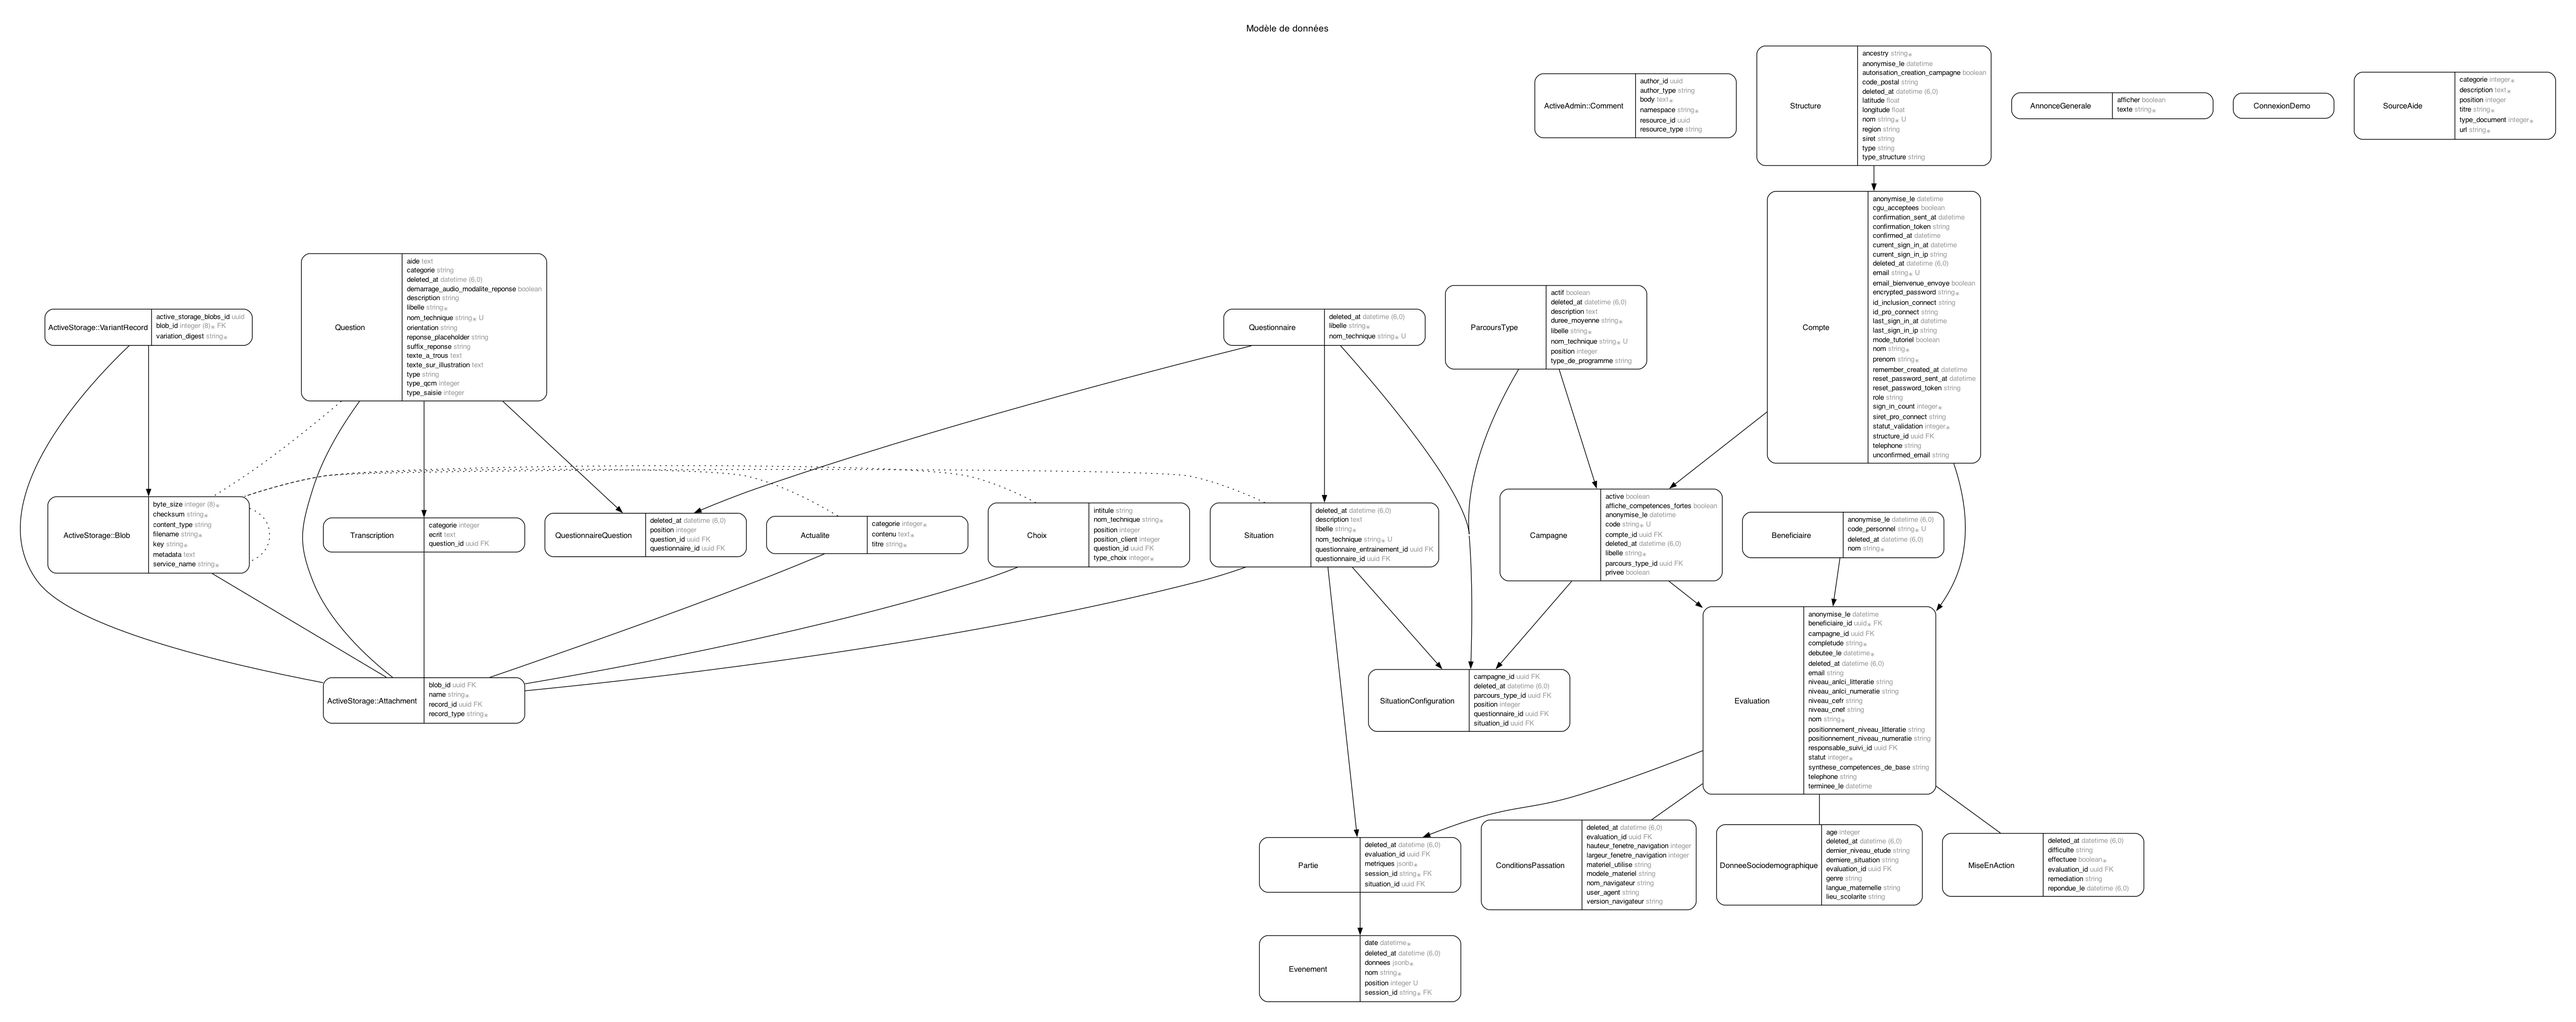
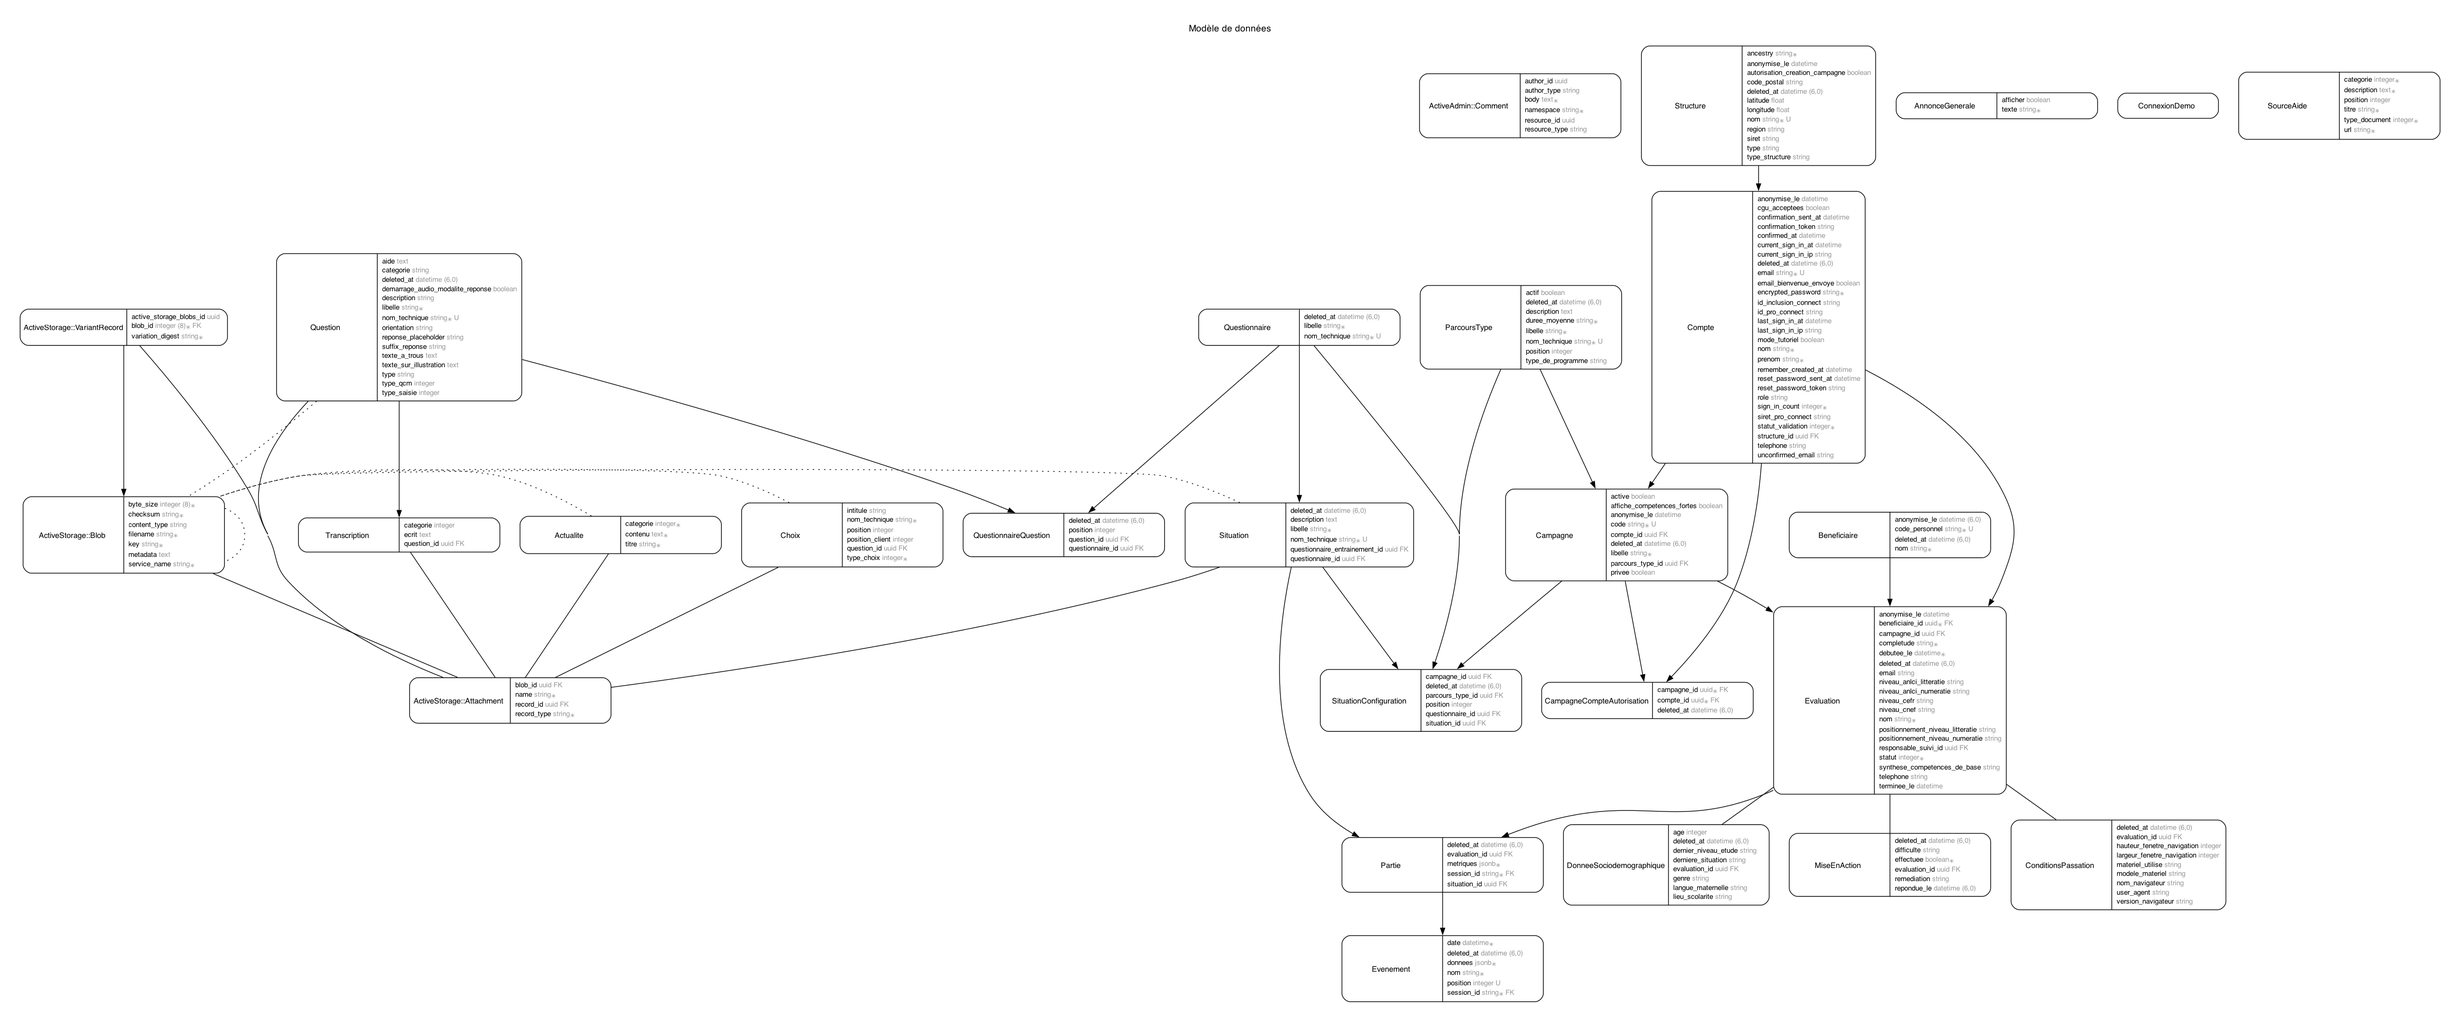
🗃 Ajoute l'autorisation des comptes pour les campagnes

diff --git a/db/schema.rb b/db/schema.rb
@@ -10,7 +10,7 @@
 #
 # It's strongly recommended that you check this file into your version control system.
 
-ActiveRecord::Schema[7.2].define(version: 2025_06_27_085157) do
+ActiveRecord::Schema[7.2].define(version: 2025_07_21_122551) do
   # These are extensions that must be enabled in order to support this database
   enable_extension "pgcrypto"
   enable_extension "plpgsql"
@@ -83,6 +83,16 @@ ActiveRecord::Schema[7.2].define(version: 2025_06_27_085157) do
     t.string "code_personnel"
     t.index ["code_personnel"], name: "index_beneficiaires_on_code_personnel", unique: true
     t.index ["deleted_at"], name: "index_beneficiaires_on_deleted_at"
+  end
+
+  create_table "campagne_compte_autorisations", id: :uuid, default: -> { "gen_random_uuid()" }, force: :cascade do |t|
+    t.uuid "campagne_id", null: false
+    t.uuid "compte_id", null: false
+    t.datetime "deleted_at"
+    t.datetime "created_at", null: false
+    t.datetime "updated_at", null: false
+    t.index ["campagne_id"], name: "index_campagne_compte_autorisations_on_campagne_id"
+    t.index ["compte_id"], name: "index_campagne_compte_autorisations_on_compte_id"
   end
 
   create_table "campagnes", id: :uuid, default: -> { "gen_random_uuid()" }, force: :cascade do |t|

diff --git a/spec/models/campagne_spec.rb b/spec/models/campagne_spec.rb
@@ -8,6 +8,7 @@ describe Campagne, type: :model do
   it { is_expected.to allow_value('ABCD1234').for(:code) }
   it { is_expected.not_to allow_value('ABC.123.').for(:code) }
   it { is_expected.not_to allow_value('abcd1234').for(:code) }
+  it { is_expected.to have_many :campagne_compte_autorisations }
 
   context 'quand une campagne a été soft-delete' do
     let(:compte) { create :compte }
@@ -21,6 +22,19 @@ describe Campagne, type: :model do
 
     it "Ne retourne pas d'erreur PostgreSQL" do
       expect(campagne.save).to be false
+    end
+  end
+
+  describe 'dependent destroy' do
+    it 'détruit les campagne_compte_autorisations quand on supprime' do
+      campagne = create :campagne, privee: true
+      autre_compte = create :compte_conseiller, structure: campagne.compte.structure
+      autorisation = CampagneCompteAutorisation.create!(campagne_id: campagne.id,
+                                                        compte_id: autre_compte.id)
+
+      campagne.destroy
+      expect(CampagneCompteAutorisation
+        .only_deleted.find(autorisation.id).deleted_at).not_to be_nil
     end
   end
 

diff --git a/db/migrate/20250721122551_creation_autorisation_campagne_compte.rb b/db/migrate/20250721122551_creation_autorisation_campagne_compte.rb
@@ -1,0 +1,14 @@
+class CreationAutorisationCampagneCompte < ActiveRecord::Migration[7.2]
+  def up
+    create_table :campagne_compte_autorisations, id: :uuid, default: -> { "gen_random_uuid()" } do |t|
+      t.uuid :campagne_id, null: false, index: true
+      t.uuid :compte_id, null: false, index: true
+      t.datetime :deleted_at
+      t.timestamps
+   end
+  end
+
+  def down
+    drop_table :campagne_compte_autorisations
+  end
+end

diff --git a/app/models/campagne.rb b/app/models/campagne.rb
@@ -9,6 +9,7 @@ class Campagne < ApplicationRecord
 
   has_many :situations_configurations, -> { order(position: :asc) }, dependent: :destroy
   has_many :evaluations, dependent: :destroy
+  has_many :campagne_compte_autorisations, dependent: :destroy
   belongs_to :compte
   belongs_to :parcours_type, optional: true
 

diff --git a/app/models/CampagneCompteAutorisation.rb b/app/models/CampagneCompteAutorisation.rb
@@ -1,0 +1,7 @@
+# frozen_string_literal: true
+
+class CampagneCompteAutorisation < ApplicationRecord
+  belongs_to :compte
+
+  acts_as_paranoid
+end
